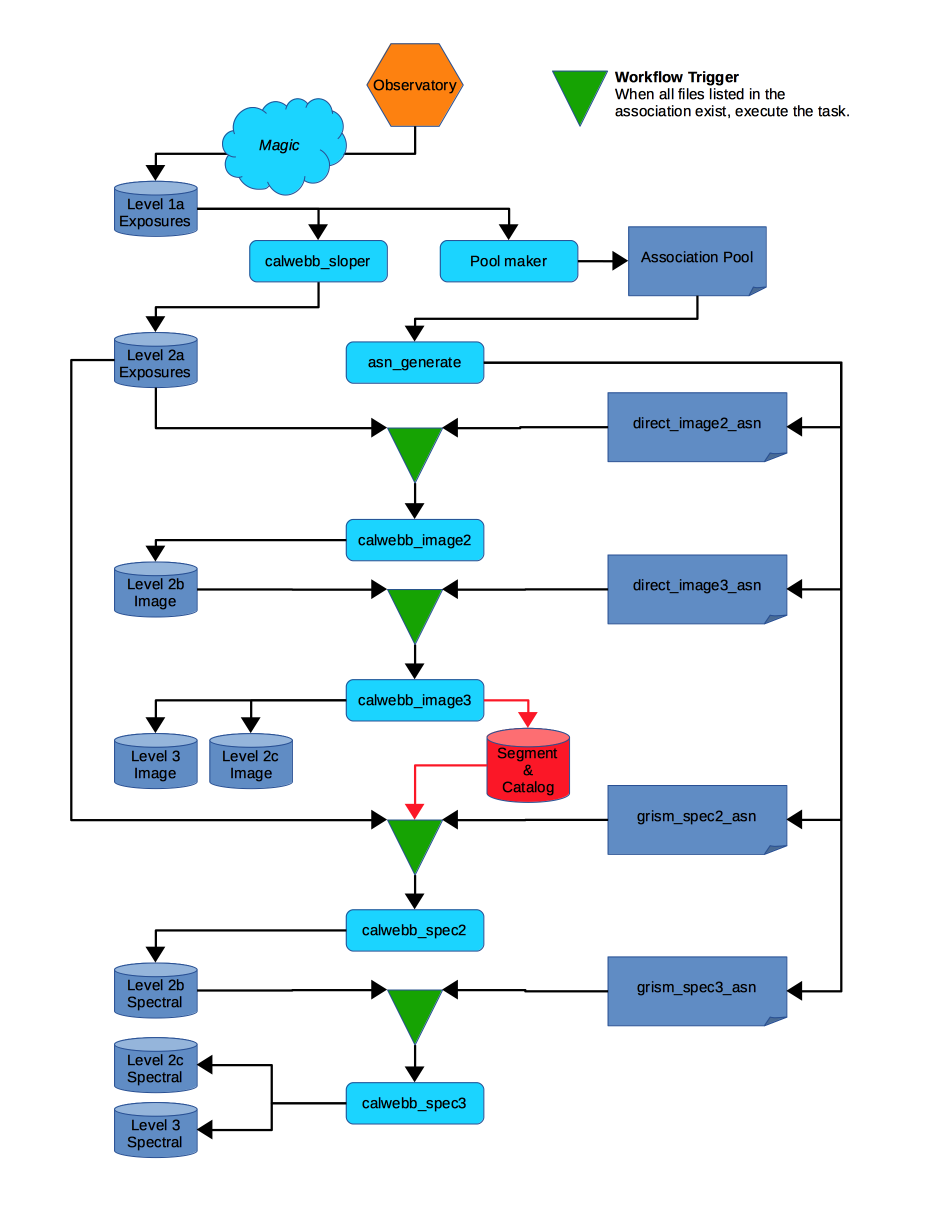
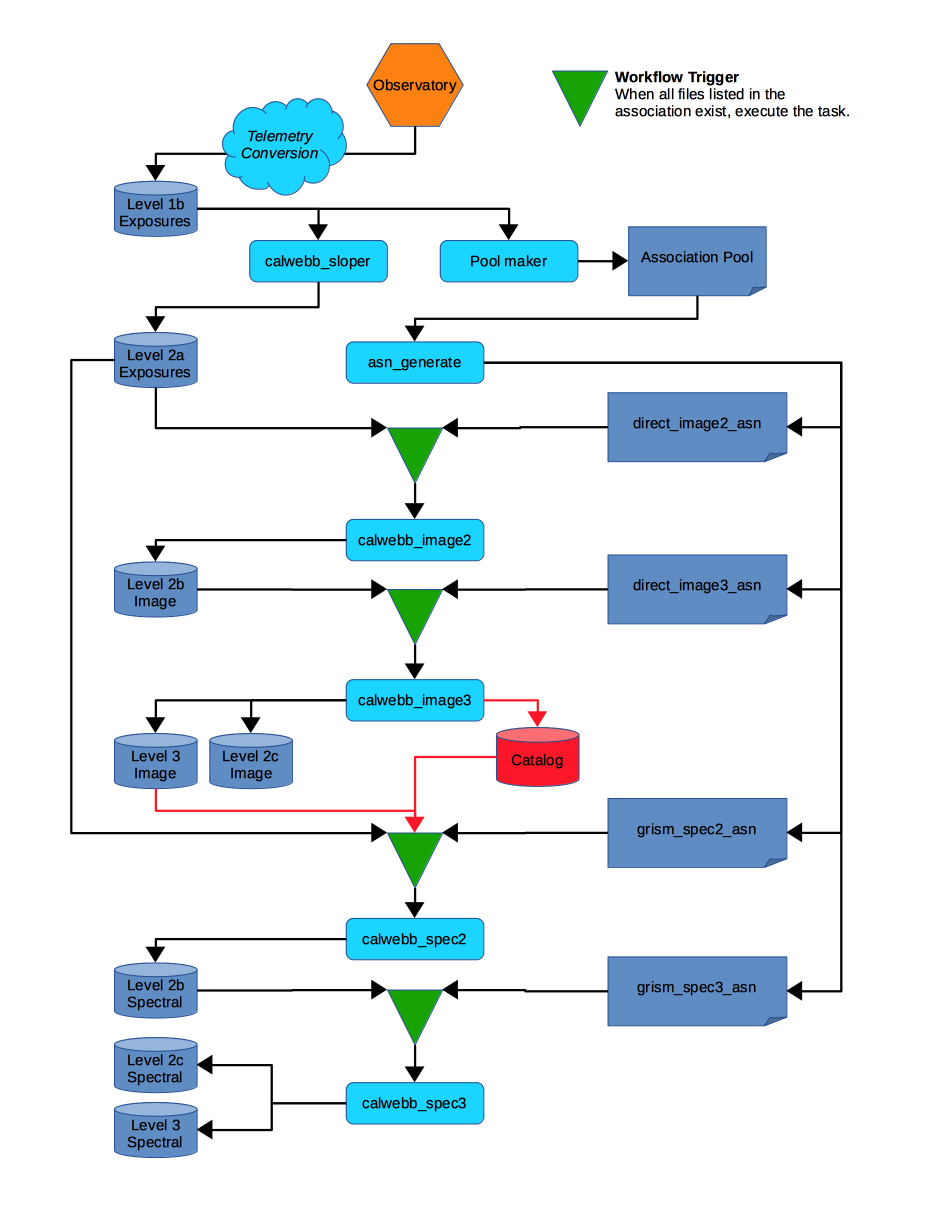
Update workflow docs for copy-edit changes [skip ci]

Changed region(s): [[0.062, 0.581, 0.6513, 0.795], [0.6513, 0.6421, 0.8995, 0.7339], [0.2481, 0.0917, 0.3412, 0.1529]]

diff --git a/docs/jwst/associations/technote_sdp_workflow.rst b/docs/jwst/associations/technote_sdp_workflow.rst
@@ -37,7 +37,7 @@ data through the system.
 The figure represents the following workflow:
 
 - Data comes down from the observatory and is converted to the Level
-  1a FITS files.
+  1b FITS files.
 - `calwebb_sloper` is run on each file to convert the data to the
   Level 2a format.
 - In parallel with `calwebb_sloper`, the Pool Maker collects the list
